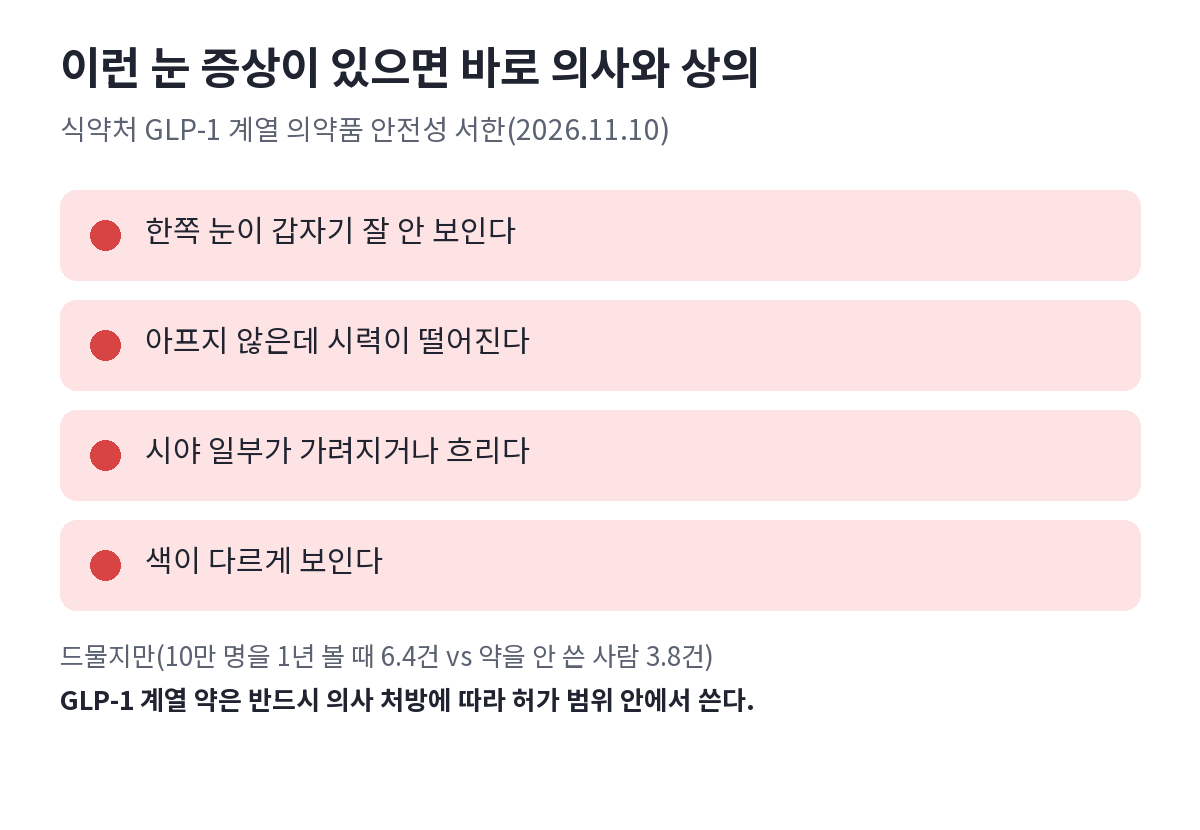
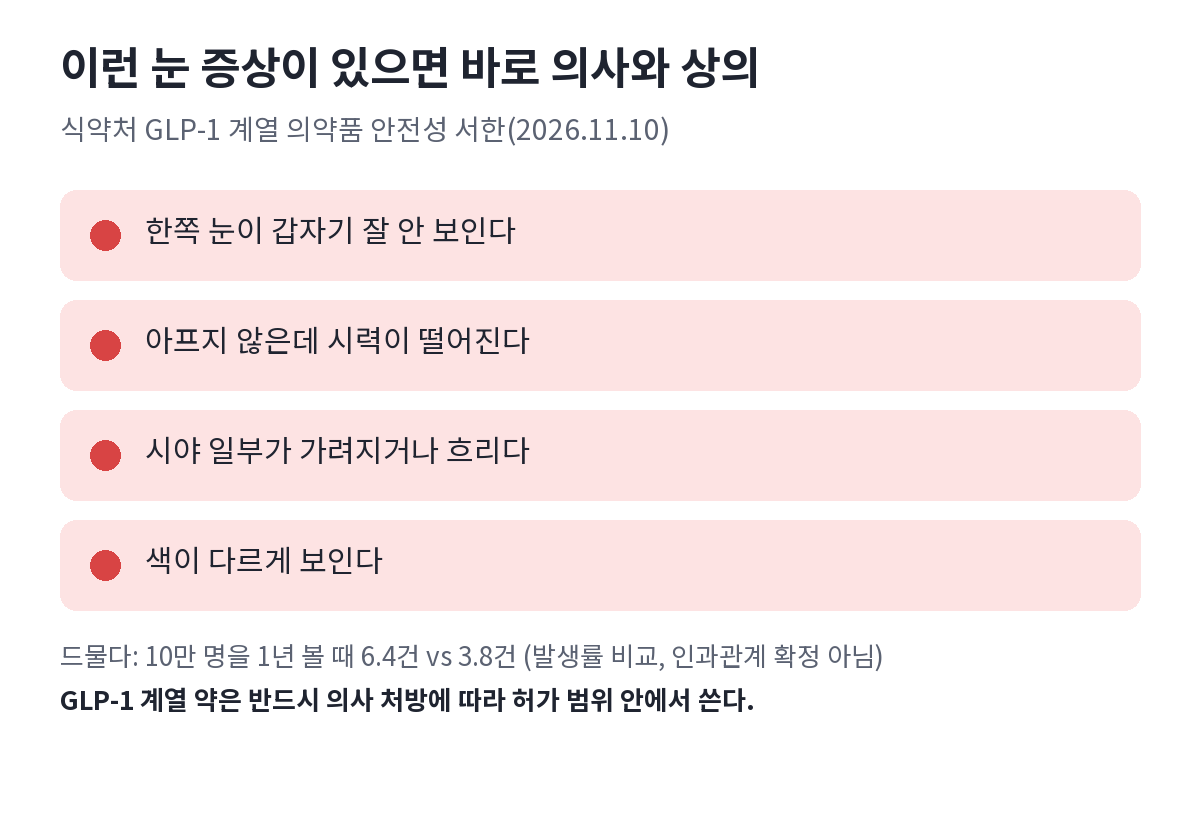
일본 마운자로 글: 타이틀 이미지 적용, 외부 검수 반영(마약류 승인 절차·일본 허가 효능·NAION 수치)

Changed region(s): [[0.0925, 0.753, 0.74, 0.8133]]

diff --git a/문서/네이버-코딩가이드/20261117_비만약-휴대반입/index.html b/문서/네이버-코딩가이드/20261117_비만약-휴대반입/index.html
@@ -4,7 +4,7 @@
 제목: 일본에서 처방받은 마운자로, 이제 들고 와도 될까? 11월 12일부터 바뀐 반입 기준
 카테고리: 생활 정보
 태그: #일본마운자로 #마운자로반입 #비만약반입 #스시자로 #마운자로 #위고비 #의약품휴대반입 #해외처방약 #식약처 #관세청 #일본여행
-글자 수: 본문 공백 포함 3,979자 / 공백 제외 3,025자 (빨간 글씨 이미지 표시 제외, 줄바꿈 제외, 2026.11.17 기준. 공통지침 분량 3,500~6,000자)
+글자 수: 본문 공백 포함 4,659자 / 공백 제외 3,547자 (빨간 글씨 이미지 표시 제외, 줄바꿈 제외, 2026.11.17 기준. 공통지침 분량 3,500~6,000자)
 발행 방법: 네이버 편집기에는 HTML 붙여넣기 기능이 없으므로, 이 파일을 브라우저로 연 다음
           본문을 드래그해 복사 → 네이버 편집기에 붙여넣는다.
           본문의 빨간 글씨 [[ 이미지: 제목 (파일명) ]] 자리에 해당 파일을 올리고, 빨간 글씨는 지운다.
@@ -32,7 +32,15 @@
   · 식약처 보도참고자료 2026.11.11 「GLP-1 계열 의약품 안전조치 추진」 https://www.mfds.go.kr/brd/m_99/view.do?seq=50485
     (미국 FDA 11.9 발표에 따라 NAION 위험 증가 가능성 안전성 서한 배포. 증상: 한쪽 눈의 갑작스럽고 통증 없는 시력 저하·시야 결손 등.
      GLP-1 투여군 10만 인년당 6.4건 vs 대조군 3.8건. 반드시 의사 처방에 따라 허가 범위 내에서 사용)
-- 기사로만 확인한 것(공식 보도자료에 없음): 해외 직구는 이번 조치에 포함되지 않음, 마약류·향정신성의약품은 계속 반입 불가,
+- 2026.11.17 외부 검수 반영:
+  · 관세청 여행자 휴대품 안내 https://www.customs.go.kr/kcs/cm/cntnts/cntntsView.do?cntntsId=7640&mi=13807
+    마약류 성분 의약품은 식약처장 승인을 받고 자가치료 목적으로 휴대 출입국하면 가능, 승인 없이 반입 시 처벌 가능,
+    감기약·수면제·다이어트약 주의 → "들고 올 수 없다" 단정을 "이번 기준 대상 아님, 식약처장 승인 필요"로 고침.
+  · 일본 일라이릴리 적정사용 안내 https://www.lilly.com/jp/patients-families/appropriate_use : 일본 마운자로 승인 효능은 제2형 당뇨병,
+    당뇨병 외 미용 목적 사용의 유효성·안전성은 확인되지 않음, 비만증 치료제는 젭바운드 → 보험 약가 설명을 체중 감량 처방과 구분,
+    체중 감량 목적 처방이 새 기준의 '정상 의료체계 처방'에 해당하는지는 공식 안내에 없다고 본문에 밝힘.
+  · NAION 6.4 vs 3.8은 임상시험 자료로 계산한 발생률 비교이며 인과관계 확정 아님을 덧붙임.
+- 기사로만 확인한 것(공식 보도자료에 없음): 해외 직구는 이번 조치에 포함되지 않음,
   일본 진통제 '이브' 일부 제품 반입 불가, 2024년 10월 GLP-1 비만약이 사실상 통관 보류 대상이 됐던 배경,
   가격(국내 마운자로 2.5mg 4주분 약 28만~35만 원, 일본 오사카 한 클리닉 1만4,800엔, 진료비 별도),
   별도 증빙 서류는 필요 없지만 세관이 정상 제품인지 확인(보도마다 표현 차이: 처방 사실 입증 필요라고 쓴 곳도 있음).
@@ -91,6 +99,8 @@
 
 <p>첫째는 국내에서 쓰던 약을 들고 해외에 나갔다가 남은 약을 다시 가지고 들어오는 경우입니다. 생각해 보면 당연한 일인데, 그동안은 이것도 막히는 일이 있었다고 합니다. 둘째는 외국인이나 유학생이 해외에서 먹던 약을 들고 들어오는 경우입니다. 셋째가 요즘 화제가 된 경우로, 해외여행 중에 처방받거나 산 약을 가지고 들어오는 것입니다.</p>
 
+<p>다만 세 번째 경우라도 따져 볼 게 있습니다. 일본에서 체중을 줄이려는 목적으로 마운자로를 처방받는 것이 이번 기준에서 말하는 '정상적인 의료 체계에 따른 처방'에 들어가는지는 공식 안내에 따로 나와 있지 않습니다. 이 부분은 아래 가격 이야기에서 다시 짚겠지만, 확실하지 않다면 출국 전에 관세청이나 식약처에 먼저 물어보는 게 안전합니다.</p>
+
 <p style="color:#e60000;font-weight:bold;">[[ 이미지: 처방전과 약 봉투 (05-처방전과-약-실사.png) ]]</p>
 
 <p>&nbsp;</p>
@@ -121,7 +131,7 @@
 <p>&nbsp;</p>
 <h3 style="font-size:18px;margin:28px 0 8px;">Q. 해외 쇼핑몰에서 사서 택배로 받으면요?</h3>
 
-<p>이건 여전히 안 됩니다. 이번에 바뀐 건 '사람이 직접 들고 오는 것'입니다. 해외 사이트에서 주문해 배송받는 의약품 직구는 이번 조치에 들어가지 않는다고 알려졌습니다. 마약류나 향정신성의약품도 지금처럼 들고 올 수 없습니다. 일본 진통제 가운데 일부 제품은 이런 성분이 들어 있어, 약국에서 파는 약이라도 반입이 안 된다고 합니다.</p>
+<p>이건 여전히 안 됩니다. 이번에 바뀐 건 '사람이 직접 들고 오는 것'입니다. 해외 사이트에서 주문해 배송받는 의약품 직구는 이번 조치에 들어가지 않는다고 알려졌습니다. 마약류나 향정신성의약품 성분이 든 약은 이번 6병·3개월 기준의 대상이 아닙니다. 관세청 안내를 보면 이런 약은 자가치료 목적이라도 식약처장의 승인을 미리 받아야 들고 드나들 수 있고, 승인 없이 들고 오면 처벌받을 수 있습니다. 감기약, 수면제, 다이어트약 가운데에도 이런 성분이 든 것이 있습니다. 일본 진통제 일부 제품처럼 약국에서 쉽게 사는 약이라도 그냥 들고 오면 안 되는 경우가 있으니, 성분을 먼저 확인해야 합니다.</p>
 
 <p style="color:#e60000;font-weight:bold;">[[ 이미지: 되는 것과 안 되는 것 (07-되는-것-안-되는-것.png) ]]</p>
 
@@ -138,11 +148,13 @@
 <hr style="border:none;border-top:1px solid #cfcfcf;margin:8px 0;">
 <h2 style="font-size:22px;margin:40px 0 12px;">왜 일본까지 가는 걸까</h2>
 
-<p>결국 가격 때문입니다. 국내에서 마운자로 2.5mg 4주분은 대략 28만~35만 원 선이라고 합니다. 일본에서는 같은 용량을 1만 엔 안팎에 처방받을 수 있다는 이야기가 퍼졌고, 오사카의 한 클리닉은 4주분을 1만 4,800엔에 안내하고 있다고 합니다. 일본에서는 이 약이 당뇨병 치료제로 건강보험에 올라 있어 약값 자체가 낮게 정해져 있다는 설명도 있습니다.</p>
+<p>결국 가격 때문입니다. 국내에서 마운자로 2.5mg 4주분은 대략 28만~35만 원 선이라고 합니다. 일본에서는 같은 용량을 1만 엔 안팎에 처방받을 수 있다는 이야기가 퍼졌고, 오사카의 한 클리닉은 4주분을 1만 4,800엔에 안내하고 있다고 합니다.</p>
+
+<p>그런데 이 숫자는 나눠서 봐야 합니다. 일본에서 마운자로가 정식으로 허가받은 효능은 제2형 당뇨병입니다. 당뇨병 환자가 건강보험으로 처방받을 때의 약값과, 체중을 줄이려고 클리닉에서 처방받을 때의 값은 같지 않습니다. 오사카 클리닉의 1만 4,800엔도 그 클리닉이 정한 가격이라, 진료비와 보험 적용 여부는 따로 확인해야 합니다. 일본에는 비만 치료용으로 따로 허가받은 같은 성분의 약(젭바운드)이 있고, 제조사도 당뇨병이 아닌 사람이 미용이나 다이어트 목적으로 마운자로를 쓸 때의 효과와 안전성은 확인되지 않았다고 안내하고 있습니다.</p>
 
 <p style="color:#e60000;font-weight:bold;">[[ 이미지: 한국과 일본 약값 비교 (09-가격-비교.png) ]]</p>
 
-<p>그런데 약값만 보고 계산하면 안 됩니다. 그래서 비행기표 값을 직접 찾아봤습니다. 이 글을 쓰는 날 구글 항공편 검색으로 인천~오사카(간사이) 왕복 직항을 조회해 보니, 주말을 낀 12월 5일(토)~7일(월)은 가장 싼 표가 약 35만 원, 평일인 12월 9일(수)~11일(금)은 약 26만 원부터였습니다. 성인 1명, 세금과 수수료를 포함한 값입니다. 항공권은 날짜와 조회 시점에 따라 계속 바뀌니, 이 숫자는 글을 쓴 날 조회한 값으로만 봐 주세요.</p>
+<p>약값 말고 들어가는 돈도 있습니다. 가장 큰 게 비행기표라 직접 찾아봤습니다. 이 글을 쓰는 날 구글 항공편 검색으로 인천~오사카(간사이) 왕복 직항을 조회해 보니, 주말을 낀 12월 5일(토)~7일(월)은 가장 싼 표가 약 35만 원, 평일인 12월 9일(수)~11일(금)은 약 26만 원부터였습니다. 성인 1명, 세금과 수수료를 포함한 값입니다. 항공권은 날짜와 조회 시점에 따라 계속 바뀌니, 이 숫자는 글을 쓴 날 조회한 값으로만 봐 주세요.</p>
 
 <p>이걸 더해 보면 이렇습니다. 4주분 약값 1만 4,800엔(약 12만 6천 원)에 평일 비행기표 26만 원만 붙여도 38만 원이 넘습니다. 여기에 진료비와 검사비, 숙소비가 더 들어갑니다. 한 달 치만 사러 간다면 국내 가격(28만~35만 원)보다 오히려 더 들 수 있는 셈입니다. 3개월 치를 한 번에 처방받으면 비행기값을 석 달로 나누게 되니 계산이 달라지지만, 일본 병원이 3개월 치를 한 번에 처방해 주는지는 병원마다 다릅니다. 결국 여행을 가는 김에 처방받는 거라면 아낄 수 있겠지만, 약만 사러 가는 거라면 생각만큼 남지 않을 수 있습니다.</p>
 
@@ -152,7 +164,7 @@
 
 <p>반입이 쉬워졌다고 약이 가벼워진 건 아닙니다. 마침 같은 날 식약처는 GLP-1 계열 약(마운자로, 위고비 등)에 대한 안전성 서한도 냈습니다. 미국 식품의약국(FDA)이 이 약들이 '비동맥 전방 허혈성 시신경병증(NAION)'이라는 눈 질환 위험을 높일 수 있다고 알린 데 따른 것입니다.</p>
 
-<p>드물기는 합니다. 식약처가 소개한 자료에서는 약을 쓴 사람 10만 명을 1년 동안 지켜봤을 때로 따지면 6.4건, 쓰지 않은 사람은 3.8건이었습니다. 다만 한쪽 눈이 갑자기, 아프지도 않은데 잘 안 보이거나 시야 일부가 가려지는 증상이 생기면 바로 담당 의사와 상의해야 한다고 안내했습니다.</p>
+<p>드물기는 합니다. 식약처가 소개한 자료에서는 약을 쓴 사람 10만 명을 1년 동안 지켜봤을 때로 따지면 6.4건, 쓰지 않은 사람은 3.8건이었습니다. 이 숫자는 여러 임상시험 자료를 모아 계산한 발생률을 비교한 것으로, 약 때문에 생긴다는 인과관계가 확정됐다는 뜻은 아닙니다. 식약처도 위험이 커질 '가능성'이 있다며 안내한 것입니다. 다만 한쪽 눈이 갑자기, 아프지도 않은데 잘 안 보이거나 시야 일부가 가려지는 증상이 생기면 바로 담당 의사와 상의해야 한다고 안내했습니다.</p>
 
 <p style="color:#e60000;font-weight:bold;">[[ 이미지: 이런 눈 증상이 있으면 바로 의사와 상의 (10-눈-증상-주의.png) ]]</p>
 

diff --git a/AGENTS.md b/AGENTS.md
@@ -123,10 +123,12 @@
 - 히스토리 가이드 후보(2026-11-15 제안, 4번 수능의 역사는 작성함): 한지 유네스코 등재(최종 결정 11.30~12.5 정부간위원회) / 김장 문화의 역사(김장철) / 단종과 영월 청령포('왕과 사는 남자' 흥행) / 순국선열의 날.
 
 ## 진행 상황 (2026-11-17 기준)
-- 2026-11-17: `문서/네이버-코딩가이드/20261117_비만약-휴대반입/index.html` 작성("일본에서 처방받은 마운자로, 이제 들고 와도 될까? 11월 12일부터 바뀐 반입 기준", 카테고리 생활 정보, 항공권 추가 후 공백 포함 3,979자). 제목은 처음 '스시자로' 중심이었는데, 사용자가 "마운자로와 일본이 들어가야 검색이 잘 된다"고 해서 두 단어를 제목 앞에 넣었다(**검색될 핵심 단어는 제목 앞부분에 넣는다**). 사용자가 "일본에서 비만약 이제 들여올 수 있다는데"라며 소재를 정하고, 제안한 3개 방향 중 1번(바뀐 반입 규칙 정리)을 골랐다. 구성: '스시자로' 도입 → 한 줄 요약(6병·3개월, 자가 치료용 의약품 전체) → 그동안 막힌 이유 → 해당되는 세 가지 경우 → Q&A(h3 5개: 몇 개까지, 다른 약, 서류, 직구, 기내 보관) → 가격(어림 비교, 숨은 비용) → 식약처 GLP-1 안전성 서한(NAION) → 글쓴이 생각. 최근 글과 다르게 Q&A 형식을 썼다.
+- 2026-11-17: `문서/네이버-코딩가이드/20261117_비만약-휴대반입/index.html` 작성("일본에서 처방받은 마운자로, 이제 들고 와도 될까? 11월 12일부터 바뀐 반입 기준", 카테고리 생활 정보, 항공권 추가·검수 반영 후 공백 포함 4,659자). 제목은 처음 '스시자로' 중심이었는데, 사용자가 "마운자로와 일본이 들어가야 검색이 잘 된다"고 해서 두 단어를 제목 앞에 넣었다(**검색될 핵심 단어는 제목 앞부분에 넣는다**). 사용자가 "일본에서 비만약 이제 들여올 수 있다는데"라며 소재를 정하고, 제안한 3개 방향 중 1번(바뀐 반입 규칙 정리)을 골랐다. 구성: '스시자로' 도입 → 한 줄 요약(6병·3개월, 자가 치료용 의약품 전체) → 그동안 막힌 이유 → 해당되는 세 가지 경우 → Q&A(h3 5개: 몇 개까지, 다른 약, 서류, 직구, 기내 보관) → 가격(어림 비교, 숨은 비용) → 식약처 GLP-1 안전성 서한(NAION) → 글쓴이 생각. 최근 글과 다르게 Q&A 형식을 썼다.
   - **공식 원문 확인**: 식약처 보도자료 게시판에서 2026.11.11 부처합동 보도자료와 GLP-1 안전조치 보도참고자료 PDF를 받아 읽었다(웹 가져오기로는 PDF 글자가 안 읽혀, 받은 파일을 임시 폴더에 .pdf로 복사해 Read로 열었다). 공식 자료에 없는 것(직구·마약류 제외, 가격, 2024.10 배경)은 "알려졌다/~라고 합니다"로 썼다.
-  - AI 제작 03 전후 비교·04 허용 유형·06 몇 개까지·07 되는 것/안 되는 것·09 가격 비교·10 눈 증상은 `images/`에 있다. ChatGPT 제작 02 세관·05 처방전·08 보냉 파우치(실사)도 적용했다. 01 타이틀(3D)은 제목을 바꾸기 전 글자("비만약 휴대 반입 / 이렇게 바뀌었다")로 만들어져 와서 `자료실/제작-이미지`에 둔 채 사용자에게 다시 요청할지 물었다. 바뀐 요청("일본 마운자로 / 들고 와도 될까?")은 `이미지요청.md`에 남아 있다.
+  - AI 제작 03 전후 비교·04 허용 유형·06 몇 개까지·07 되는 것/안 되는 것·09 가격 비교·10 눈 증상은 `images/`에 있다. ChatGPT 제작 01 타이틀(3D, "일본 마운자로 / 들고 와도 될까?")·02 세관·05 처방전·08 보냉 파우치(실사)도 적용해 이미지 10장이 모두 `images/`에 있다. 01은 처음에 제목을 바꾸기 전 글자로 와서 다시 받았다(이미지 요청을 고친 뒤에는 사용자에게 다시 만들어 달라고 알린다). 대기 중인 이미지 요청 없음. 남은 일은 사용자의 네이버 발행뿐이다(발행이 늦어지면 항공권 다시 조회).
   - 사용자 요청으로 실제 항공권 값을 넣었다: 2026.11.17 구글 항공편 검색 조회, 인천~간사이 직항 왕복 최저가(평일 12/9~11 약 25.9만 원, 주말 12/5~7 약 35.4만 원). **변동이 큰 가격(항공권 등)은 직접 조회해 넣고, 본문에는 구체적인 날짜 대신 "이 글을 쓰는 날 조회 기준"이라고 쓴다**(사용자 요청, 2026-11-17. 이미지에도 "작성일 조회 기준"). 실제 조회일은 발행 메모에만 적는다. 네이버에 보이는 날짜는 발행일이라, 발행이 늦어지면 다시 조회해 고친다. 이미지 09도 약값+항공권 막대로 바꿨다.
+  - 2026-11-17 외부 검수 반영(관세청 여행자 휴대품 안내, 일본 일라이릴리 적정사용 안내로 확인): 마약류·향정은 "들고 올 수 없다" 단정 대신 "이번 기준 대상 아님, 식약처장 승인을 받아야 휴대 출입국 가능"; 일본 마운자로 승인 효능은 제2형 당뇨병이라 보험 약값과 체중 감량 목적 클리닉 가격을 구분하고, 체중 감량 목적 처방이 새 기준의 '정상 의료체계 처방'에 해당하는지는 공식 안내에 없다고 밝힘(젭바운드 언급); NAION 6.4 vs 3.8은 발생률 비교이며 인과관계 확정 아님. 이미지 07·09·10도 고쳤다.
+  - **의약품·해외 처방 글 기준(위 검수에서 배운 점)**: "안 된다/된다"를 단정하기 전에 예외 절차(사전 승인 등)가 있는지 공식 안내를 본다. 해외 약값은 그 나라의 허가 효능·보험 적용 조건을 확인하고, 허가 외 목적 처방과 섞어 쓰지 않는다. 위험 수치는 연관(발생률 비교)인지 인과인지 구분해 쓴다.
   - 의약품 글 기준: 효과·안전성을 단정하지 않고, "들고 와도 된다 ≠ 사 오면 이득"으로 원정 구매를 권하지 않게 썼다. 적발 건수는 보도마다 기준이 달라 쓰지 않았다.
 - 2026-11-17: `문서/네이버-코딩가이드/20261117_카카오뱅크-애플페이/index.html` 작성("카카오뱅크 체크카드로도 애플페이, 3년 8개월 만에 생긴 두 번째 선택지", 카테고리 컴퓨터·IT, 검수 반영 후 공백 포함 4,489자). 사용자가 "뉴스 말고 SNS에서" 찾아 달라고 해서 X 트렌드(trends24: '애플페이' 13시간 넘게)와 구글 인기 검색어로 고른 주제. 11/9 저녁 '깜짝 작동' 장면으로 시작 → 3년 8개월 현대카드뿐 → 넣을 수 있는 카드(체크·mini, 신용카드 불가) → 쓰는 곳·순서·NFC → 보안(h3) → 청소년 → 수수료 0.15%와 카드사 계산 → 앞으로 볼 것, 글쓴이 생각으로 마무리. 언론사 이름 인용은 쓰지 않았다.
   - **공통지침 추가(2026-11-16 사용자): 글 분량은 공백 포함 3,500~6,000자. 대표(01) 이미지는 만화·3D만 쓰지 말고 실사·차트·표 등으로 다양하게.** 이 글은 처음으로 대표 이미지를 실사풍(+제목 글자)으로 요청했다.

diff --git a/이미지요청.md b/이미지요청.md
@@ -3,17 +3,4 @@
 - ChatGPT는 이 파일을 읽기만 하고 수정하지 않습니다.
 - 만든 이미지는 `자료실/제작-이미지` 폴더에 아래 **파일명 그대로** 저장해 주세요.
 
-## 네이버 글 「일본에서 처방받은 마운자로, 이제 들고 와도 될까? 11월 12일부터 바뀐 반입 기준」
-
-공통 조건
-- 의약품 상표, 제약사 로고, 실제 제품 포장(위고비·마운자로 디자인)은 넣지 않는다. 주사펜은 상표 없는 단색 펜 모양으로.
-- 공항·세관·병원 이름이나 읽을 수 있는 글자는 넣지 않는다(아래에 따로 적은 글자만).
-- 사람 얼굴이 나오지 않게 한다(손, 뒷모습 위주).
-- 약을 몰래 숨기는 장면처럼 불법 반입을 떠올리게 하는 장면은 그리지 않는다.
-
-### 1. `01-타이틀.png` (다시 요청: 먼저 받은 그림은 바뀌기 전 글자 "비만약 휴대 반입 / 이렇게 바뀌었다"로 나왔다)
-- 종류: 3D 일러스트, 1:1 (1080×1080)
-- 내용: 밝은 하늘색 그라데이션 배경. 가운데에 작은 여행용 캐리어, 그 옆에 투명한 보냉 파우치 안에 상표 없는 흰색 주사펜 두 개, 처방전처럼 보이는 빈 종이(글자 없음), 작은 비행기 하나.
-- 넣을 글자(정확히 이 글자만): 큰 글씨 "일본 마운자로", 그 아래 "들고 와도 될까?"
-- 글자만 제품 이름을 쓰고, 그림에는 제품 포장·로고를 넣지 않는다.
-- 작은 글씨는 넣지 않는다.
+(현재 요청 없음)
